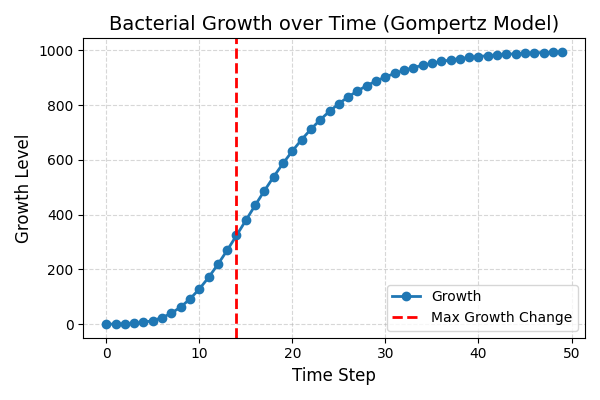
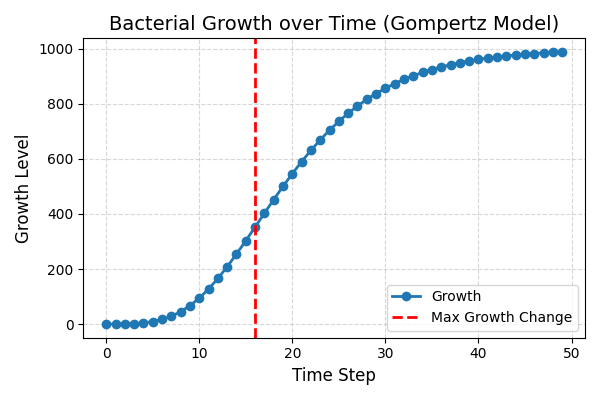
temperature adjustment for growth i guess

diff --git a/growth_model/growth_model/utils.py b/growth_model/growth_model/utils.py
@@ -5,15 +5,50 @@ import pandas as pd
 from matplotlib import pyplot as plt
 import os
 class GompertzGrowth:
-    def __init__(self, initial_density, plateau_density, growth_rate):
-        self.N0 = initial_density
-        self.Ninf = plateau_density
-        self.b = growth_rate
+    def __init__(self, N0, Ninf, b_max, temperature, Tmin, Tmax, c):
+        """
+        N0: initial density
+        Ninf: maximum density
+        b_max: max growth rate at optimal temperature
+        temperature: current temperature
+        Tmin: minimum growth temperature
+        Tmax: maximum growth temperature
+        c: 'an additional parameter to enable the model to fit the data for temperatures above the optimal temperature' #thanks ratowsky nice paper 
+        """
+        self.N0 = N0
+        self.Ninf = Ninf
+        self.b_max = b_max
+        self.temperature = temperature
+        self.Tmin = Tmin
+        self.Tmax = Tmax
+        self.c = c
+        
+    #I need to figure out how this adjustmen in the growth is actually working
+    def adjusted_growth_rate(self):
+        T = self.temperature
+
+        if T <= self.Tmin or T >= self.Tmax:
+            return 0.0  # no growth
+
+        # Ratkowsky with above-optimum tail
+        mu_sqrt = self.b_max * (T - self.Tmin) * (1 - math.exp(self.c * (T - self.Tmax)))
+        
+        if mu_sqrt < 0:
+            return 0.0
+        
+        return mu_sqrt ** 2
 
     def evaluate(self, t):
-        # Gompertz model:
-        # N(t) = N0 * exp( ln(Ninf/N0) * (1 - exp(-b t)) )
-        return self.N0 * math.exp(math.log(self.Ninf / self.N0) * (1 - math.exp(-self.b * t)))
+        b_adj = self.adjusted_growth_rate()
+
+        if b_adj >= 0:
+            # Standard Gompertz growth
+            return self.N0 * math.exp(math.log(self.Ninf / self.N0) * (1 - math.exp(-b_adj * t)))
+        else:
+            # Death-phase Gompertz
+            k = -b_adj
+            N_min = 1e-6
+            return self.N0 * math.exp(-math.log(self.N0 / N_min) * math.exp(-k * t))
 
 
 def create_data(model):
@@ -72,7 +107,7 @@ def run_model(ininital_density,platau_density,growth_rate):
     platau_density = float(platau_density)
     growth_rate = float(growth_rate)
     
-    model=GompertzGrowth(ininital_density,platau_density,growth_rate)
+    model=GompertzGrowth(ininital_density,platau_density,growth_rate,temperature=37,Tmin=5,Tmax=45,c=0.01)
     growth_data = create_data(model)
     greatest_growth_index = get_highest_growth_step(growth_data)
     
